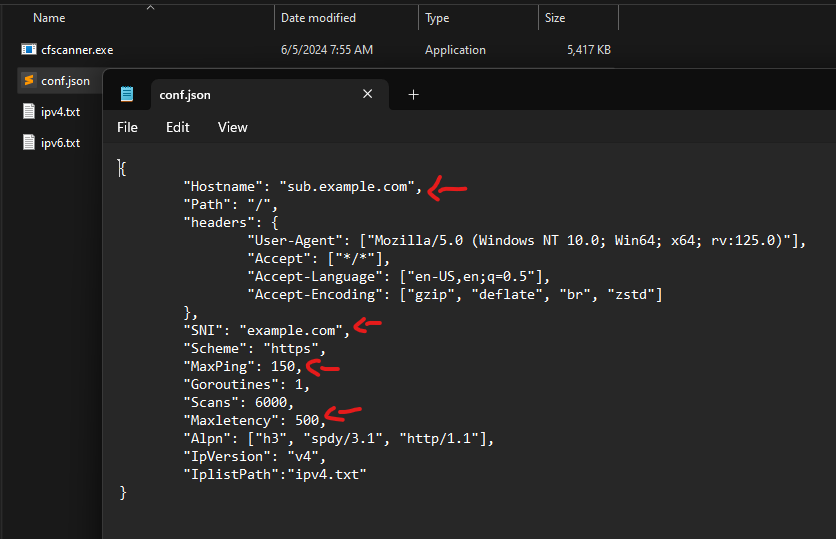
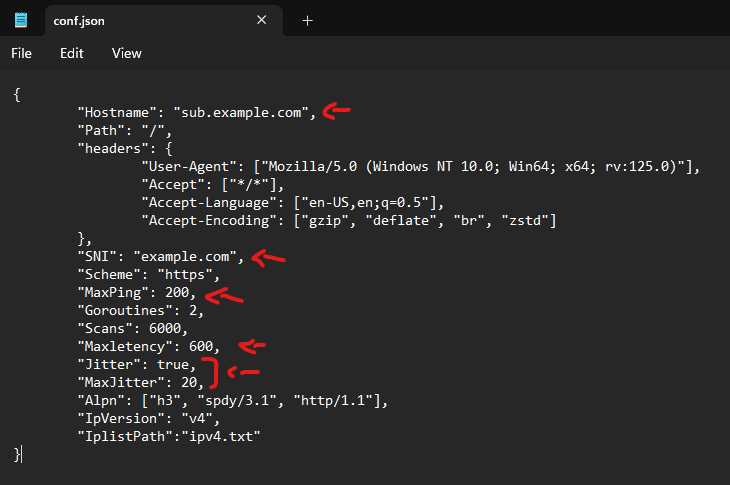
fix jitter and added max jitter

Changed region(s): [[0.0, 0.0, 1.0, 0.9278], [0.6329, 0.0, 0.6932, 0.0619], [0.0, 0.9278, 0.0301, 0.9588]]

diff --git a/main.go b/main.go
@@ -27,6 +27,7 @@ type Conf struct {
 	Scans      int                 `json:"Scans"`
 	Maxletency int64               `json:"Maxletency"`
 	Jitter     bool                `json:"Jitter"`
+	MaxJitter  float64             `json:"MaxJitter"`
 	Scheme     string              `json:"Scheme"`
 	Alpn       []string            `json:"Alpn"`
 	IpVersion  string              `json:"IpVersion"`
@@ -61,6 +62,7 @@ func main() {
 	ipversion := conf.IpVersion
 	iplistpath := conf.IplistPath
 	cjitter := conf.Jitter
+	maxjitter := conf.MaxJitter
 
 	ch := make(chan string)
 	for range goroutines {
@@ -149,11 +151,17 @@ func main() {
 							e := time.Now()
 							latency := e.UnixMilli() - s.UnixMilli()
 							if http_err != nil {
+								latencies = append(latencies, 999)
 								continue
 							}
 							latencies = append(latencies, float64(latency))
 						}
-						jitter_str = fmt.Sprintf("\t%f", Calc_jitter(latencies))
+						jitter := Calc_jitter(latencies)
+						if jitter > maxjitter {
+							color.Yellow("%s\t%s\t%d\t%f\n", ip, pinger.Statistics().MinRtt, latency, jitter)
+							continue
+						}
+						jitter_str = fmt.Sprintf("\t%f", jitter)
 					}
 					rep := fmt.Sprintf("%s\t%s\t%d\t%s\n", ip, pinger.Statistics().MinRtt, latency, jitter_str)
 					color.Cyan("%s", rep)

diff --git a/jitter.go b/jitter.go
@@ -8,9 +8,9 @@ func Calc_jitter(list []float64) float64 {
 	average := calc_average(list)
 	zigma := 0.0
 	for _, element := range list {
-		zigma += (element - average) * (element - average)
+		zigma += math.Abs(element - average)
 	}
-	return math.Sqrt((1.0 / float64(len(list)) * zigma))
+	return zigma / float64(len(list))
 }
 
 func calc_average(list []float64) float64 {

diff --git a/README_fa.md b/README_fa.md
@@ -23,6 +23,8 @@
 * Goroutines: تعداد گوروتین های همزمان برای اسکن. در اینجا، روی 1 تنظیم شده است
 * Scans: تعداد کل اسکن برای انجام. مثال 6000 را مشخص می کند
 * Maxletency: حداکثر تأخیر قابل قبول (بر حسب میلی ثانیه). روی 500 تنظیم کنید.
+* Jitter: فعال سازی محاسبه جیتر.
+* MaxJitter: حداکثر جیتر مجاز.
 * Alpn: فهرست پروتکل های پشتیبانی شده (مذاکره پروتکل لایه برنامه)
   * "http/1.1"
 * IplistPath: مسیر فایل حاوی لیستی از آدرس های آی پی. به عنوان مثال

diff --git a/README.md b/README.md
@@ -27,5 +27,7 @@ To build stripped run `go build -ldflags "-w -s"` in project directory
 * Goroutines: Number of concurrent goroutines for scanning. Here, it’s set to 1.
 * Scans: Total number of scans to perform. The example specifies 6000.
 * Maxletency: Maximum acceptable latency (in milliseconds). Set to 500.
+* Jitter: Enable calculate jitter.
+* MaxJitter: Acceptable jitter.
 * Alpn: List of supported ALPN (Application-Layer Protocol Negotiation) protocols. In this case, it’s ["http/1.1"].
 * IplistPath: Path to the file containing a list of IP addresses. For instance, "ipv4.txt".

diff --git a/tutorial/FA.md b/tutorial/FA.md
@@ -19,6 +19,8 @@
     * `SNI`: دامنه شما بدون ساب دامنه
     * `MaxPing`: حداکثر پینگ مجاز
     * `Maxlatency`: حداکثر تاخیر مجاز برا اساس درخواست HTTP
+    * `Jitter`: فعال یا غیرفعال سازی محاسبه جیتر.
+    * `MaxJitter`: حداکثر جیتر مجاز.
 
 5. فایل cfscanner را اجرا کنید
 
